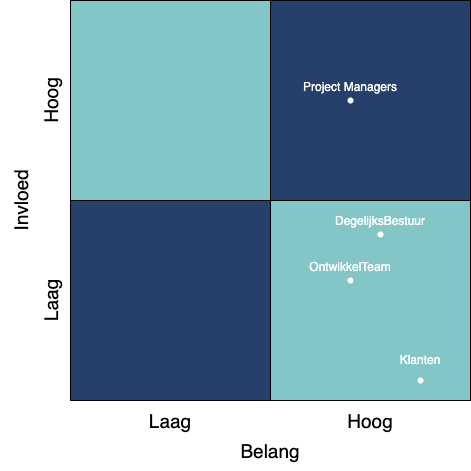
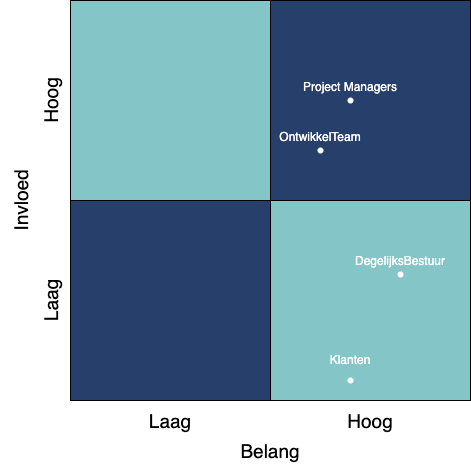
stakeholdersanalyse afbeelding aangepast begonnen aan merge van Onderzoeksmethode naar Onderzoeksplan

diff --git a/Chapters/0301-OnderzoeksPlan.tex b/Chapters/0301-OnderzoeksPlan.tex
@@ -1,6 +1,6 @@
 \chapter{Onderzoeksplan}\label{ch:onderzoekPlan}
 
-In het vorige hoofdstuk is de opdracht voor dit onderzoek duidelijk uitgeschreven. In dit hoofdstuk wordt uitgewijd over hoe deze opdracht wordt uitgevoerd, welke bronnen er gebruikt worden en hoe het onderzoek gedaan zal worden. Het resultaat is het een onderzoeksplan voor een onderzoek naar analyses op kwetsbaarheden op externe bibliotheken(SOUP) binnen EagleScience. Als leidraad voor dit hoofdstuk is gekozen voor hoofdstuk 4 uit \cite{JanLeen2017}
+In het vorige hoofdstuk is de opdracht voor dit onderzoek duidelijk uitgeschreven. In dit hoofdstuk wordt uitgewijd over hoe deze opdracht wordt uitgevoerd, welke bronnen er gebruikt worden en hoe het onderzoek gedaan zal worden. Het resultaat is het een onderzoeksplan voor een onderzoek naar analyses op kwetsbaarheden op externe bibliotheken(SOUP) binnen EagleScience. Als leidraad voor dit hoofdstuk is gekozen voor hoofdstuk 4 uit~\cite{JanLeen2017}
 
 \section{Aanleiding}\label{sec:OP_aanleiding}
 EagleScience heeft de ambitie om te groeien in zowel het aantal projecten dat het aanneemt als in het aantal medewerkers. Daarnaast is het bezig met het integreren van het software lifecycle management paradigma in het kwaliteitssysteem om zo een gerichte-, transparante en traceerbare aanpak te hebben over de kwaliteit en daarmee de veiligheid van de te leveren software. Vooral de groei in projecten heeft geleid tot deze opdracht. Het feit dat EagleScience aanbied om de door ons ontwikkelde applicaties te hosten voor de klant zullen deze in de komende tijd ook aannemen. Hierdoor neemt de druk op het DevOps team binnen EagleScience toe. Om deze druk te verminderen wordt er gezocht naar manieren om taken die veel voorkomen en bijdragen aan de kwaliteit te automatiseren om op die manier een traceerbare en transparante aanpak te hebben.
@@ -13,27 +13,23 @@ Er moet dus een methode worden ontwikkeld die het mogelijk maakt om geautomatise
 
 Door de analyses te automatiseren wordt beoogd dat er minder tijd wordt besteed aan de analyse. Deze tijd kan dan worden besteed door de ontwikkelaar aan taken die declarabel zijn en voor beide partijen winstgevend zijn.
 
-
 %Probleem stelling
-Samengevat is het probleem als volgt: "Handmatig SOUP-analyses doen kost tijd die niet declarabel zijn. Om deze reden is de wens dat er een geautomatiseerde oplossing komt die periodiek de projecten die in ontwikkeling zijn en/of gehost worden door EagleScience geanalyseerd wordt op kwetsbaarheden in gebruikte externe bibliotheken. Door deze automatische oplossing wordt ingeschat dat de (niet declarabele) uren die normaal gebruikt worden voor analyseren van de projecten gebruikt kunnen worden voor andere wel declarabale uren.
+Samengevat is het probleem als volgt: "Handmatig SOUP-analyses doen kosten manuren die niet declarabel zijn. Om deze reden is de wens dat er een geautomatiseerde oplossing komt die periodiek de projecten die in ontwikkeling zijn en/of door EagleScience gehost worde analyseerd op kwetsbaarheden in gebruikte externe bibliotheken. Door deze automatische oplossing te gebruiken wordt ingeschat dat de (niet declarabele) uren die normaal gebruikt worden voor het analyseren van projecten gebruikt kunnen worden voor andere wel declarabale uren. En daarmee de efficientie verhoogd binnen EagleScience.
 
-De huidige handmatig uitgevoerde SOUP-analyses zijn tijdrovend waardoor ontwikkelaars andere taken moeten laten vallen. Daarnaast wordt de analyse niet frequent genoeg gedaan en vaak enkel op inplanbare momenten. De probleemstelling luidt: "Ontwikkel een methode die automatisch en periodiek een SOUP-analyse doet op de projecten die EagleScience in haar beheer heeft".
-
-Centrale vraagstelling:
+Voor het onderzoek naar het hierboven genoemde probleem is de volgende centrale onderzoeksvraag opgesteld: "Hoe kan EagleScience middels een geautomatiseerde methode inzicht krijgen in potentiële kwetsbaarheden van gebruikte bibliotheken binnen zowel lopende als niet lopende projecten waarbij rekening gehouden wordt met de huidige manier van werken?" En heeft de volgende doelstelling:
 
 
 
 
-
-\section{Doelstellingen}\label{sec:doelstellingen}
-Het doel van dit onderzoek is het ontwikkelen van een methode om een SOUP-analyse te doen binnen de dev-stack van EagleScience. Hierbij moet rekening gehouden worden met de in de opdracht gegeven criteria, waarvan de belangrijkste is dat er zo min mogelijk impact moet zijn op de huidige werkwijze. Aan het einde van het onderzoek moet dus een methode worden gepresenteerd die vervolgens bewezen kan worden middels een implementantie van een  analyse op de twee meest gebruikte technologiën binnen EagleScience. De implementatie wordt dan ook in deel \ref{prt:Implementatie} beschreven.
+%\section{Doelstellingen}\label{sec:doelstellingen}
+Het doel van dit onderzoek is het ontwikkelen van een methode om een SOUP-analyse te doen binnen de dev-stack van EagleScience. Hierbij moet rekening gehouden worden met de in de opdracht gegeven criteria, waarvan de belangrijkste is dat er zo min mogelijk impact moet zijn op de huidige werkwijze. Aan het einde van het onderzoek moet dus een methode worden gepresenteerd die vervolgens bewezen kan worden middels een implementantie van een  analyse op de twee meest gebruikte technologiën binnen EagleScience. De implementatie wordt dan ook in deel~\ref{prt:Implementatie} beschreven.
 
 
 \section{Stakeholdersanalyse}\label{sec:stakeholdersanalyse}
-Om te kijken naar het draagvlak voor dit onderzoek dient er een stakeholders analyse gedaan te worden. Op deze manier moet het duidelijk worden wie de stakeholders zijn en welke belangen zei hebben bij het doen van een onderzoek naar een geautomatiseerde SOUP-Analyse en de resultaten hiervan.
+Om inzicht te verkrijgen in het draagvlak voor dit onderzoek dient er een stakeholders analyse gedaan te worden. Op deze manier moet het duidelijk worden wie de stakeholders zijn en welke belangen zei hebben bij het doen van een onderzoek naar een geautomatiseerde SOUP-Analyse en de resultaten hiervan.
 
 \subsection{Dagelijks bestuur (intern)}\label{subsec:dagelijks-bestuur-(intern)1}
-Het dagelijks bestuur ziet vooral voordelen in het op een overzichtelijke manier verkrijgen van inzichten in kwetsbaarheden. Zij beogen dat ze hierdoor beter kunnen aansturen in het gebruik van bibliotheken en/of andere technologiëen. Ondanks dat de ontwikkeling van de beoogde nieuwe module vooral geld zal kosten, is de huidige manier van werken ook niet kosten-effectief. Daarnaast voorziet de CTO dat de nieuwe module tijdswinst zal opleveren waardoor de time-to-market voor andere projecten hoger kan komen te liggen en er dus op langer termijn meer verdiend kan worden.
+Het dagelijks bestuur ziet vooral voordelen in het op een overzichtelijke manier verkrijgen van inzichten in kwetsbaarheden. Zij beogen dat ze hierdoor beter kunnen aansturen in het gebruik van bibliotheken en/of andere technologiëen. Ondanks dat de ontwikkeling van de beoogde nieuwe module vooral geld zal kosten, is de huidige manier van werken ook niet kosten-effectief. Daarnaast voorziet de CTO dat de nieuwe module tijdswinst zal opleveren waardoor de time-to-market voor andere projecten hoger kan komen te liggen en er dus op langer termijn meer omzet gegenereerd kan worden.
 
 \subsection{Projectmanagers (intern)}\label{subsec:projectmanagers-(intern)1}
 Project managers krijgen op dit moment een update over de staat van kwetsbaarheden op het moment dat een analyse gedaan is. Veelal na een deploy of als er naar gevraagt is. De nieuwe module zal ze echter de mogelijkheid bieden om up-to-date informatie on-demand te verkrijgen.
@@ -65,11 +61,11 @@ Het theoretisch kader waarmee gewerkt wordt bestaat uit twee hoofddelen. Het eer
     \item \textbf{200121\_Policy Manual\_ES\_V6 signed.pdf} ISO handboek waarin de bedrijfsvoering binnen EagleScience wordt beschreven.
 \end{itemize}
 Deze documenten vormen de basis over de werkwijze van EagleScience en zal als input gelden voor het ontwerp dat plaats gaat vinden na het onderzoek.
-
+jsdkl;;;;
 Het tweede hoofddeel is de theorie over externe bibliotheken. Het richt zich op het gebruik hiervan, de potentiële gevaren en methoden om deze bibliotheken te analyseren. Als ingangspunt is de OWASP Top-10 gekozen omdat de inhoud van dit document binnen EagleScience geldt als aandachtspunten voor het ontwikkelen van veilige software. De basis voor dit onderzoek wordt beschreven in punt "A06:2021-Vulnerable and Outdated Components". Hier wordt beschreven welke gevaren er potentieel dreigen als op dit punt niets gedaan wordt. Andere bronnen zijn:
 \begin{itemize}
     \item \textbf{OWASP top 10 (https://owasp.org/Top10/)} hierin staan de belangrijkste aandachtspunten die door een onderzoek vanuit de OWASP aan het licht zijn gekomen. Op A06:2021 staat een melding over kwetsbaarheden en outdated Components.
-    \item \textbf{Detail pagina OWASP A06:2021(https://owasp.org/Top10/A06_2021-Vulnerable_and_Outdated_Components/)} OP deze pagina zijn details te vinden over item A06:2021 waaronder een beschrijving, Hoe het te voorkomen is en een aantal voorbeeld scenario's waarbij een aanval wordt geillustreerd.
+    \item \textbf{Detail pagina OWASP A06:2021(https://owasp.org/Top10/A06\_2021-Vulnerable\_and\_Outdated\_Components/)} OP deze pagina zijn details te vinden over item A06:2021 waaronder een beschrijving, Hoe het te voorkomen is en een aantal voorbeeld scenario's waarbij een aanval wordt geillustreerd.
     \item \textbf{OWASP dependency-check (https://owasp.org/www-project-dependency-check/)} Pagina over het project binnen de OWASP voor het analyseren van componenten in Applicaties
     \item \textbf{Justifying the use of software of uncertain pedigree (SOUP) in safety-related applications} P.G.\ Bishop, R.E.\ Bloomfield and P.K.D.\  Froome for Adelard 2001. Hoewel dit document verouderd lijkt staat er wel degelijk interessante informatie over waarom je SOUP zou gebruiken en hoe je de risico's kan verminderen.
     \item \textbf{Backstabber’s Knife Collection: A Review of Open Source Software Supply Chain Attacks} Marc Ohm, Henrik Plate, Arnold Sykosch, and Michael Meier: 2020: Dit artikel bevat informatie over een mogelijke vorm van aanvallen die middels SOUP uitgevoerd zouden kunnen worden. Daarnaast geeft het artikel inzicht in hoe de onderzoekers packages voor NPM, Python, en Ruby hebben onderzocht.
@@ -88,6 +84,90 @@ Om de relevantie en relatie van de verschillende onderzoeken te waarborgen is he
 In figuur~\ref{fig:ConceptueelModel} is het conceptueel model opgenomen dat voor deze opdracht is opgesteld. Dit model maakt de samenhang van de verschillende begrippen duidelijk.
 
 Het kernbegrip is "Automatische methode SOUP analyse" en staat voor de eind conclusie die het onderzoek moet opleveren in de zin van een conclussie over tools en een methode die gebruikt kunnen worden in het ontwerp van de module. Om tot deze conclussie te komen zijn er vier begrippen die ieders een eigen domein binnen de probleemstelling belichten. Zo zal "werkwijze EagleScience" de manier van werken binnen Eaglescience belichten als ook de manier van uitrollen en de dev-stack die gebruikt gaat worden. Ook komt hier de Software Lifecycle Managment aan bod gezien dit één van de aanleidingen voor de opdracht. Het theoretische deel van het onderzoek wordt onderzocht in "veilig gebruik externe bibliotheken" waarin wordt gekeken waarom er bibliotheken van buitenaf worden gebruikt en wat de potentiële gevaren zijn die dit met zich meebrengt. Het begrip methoden en tools zal ingaan op de beschikbare tools die gebruikt kunnen worden om een analyse te doen. Met deze tools wordt een methode onderzocht die het mogelijk maakt met de constraints die EagleScience heeft om een SOUP analyse te doen. Met als resultaaat een theoretische methode die als input kan gelden voor het ontwerp voor de nieuwe module die in de opdracht staat beschreven. Deze nieuwe module dient in de EagleScience Portal opgenomen te worden en om die reden is het begrip "Huidig architctuur EagleScience Portal" waarin wordt onderzocht hoe de portal ontworpen is en welke dev-stack er is gebruikt.
+
+\section{Onderzoeksontwerp}\label{sec:OP_onderzoeksontwerp}
+Aan de hand van het hioerboven beschreven theoretisch kader, conceptueel model en de doelstellingen in het volgende onderzoeksOntwerp opgesteld.
+
+section{Onderzoeksvraag en deelvragen}
+Op basis van de opdracht de gesteld is door het management team is de onderzoeksvraag als volgt: "Hoe kan EagleScience middels een geautomatiseerde methode inzicht krijgen in potentiële kwetsbaarheden van gebruikte bibliotheken binnen zowel lopende als niet lopende projecten waarbij rekening gehouden wordt met de huidige manier van werken?"
+
+Door deze vraag te ontleden komen zijn er verschillende domeinen waar er onderzocht moet worden:
+Het eerste domein is EagleScience, waar we de deelvraag kunnen stellen: "Welke methode en dev-stack worden er gebruikt om binnen EagleScience software te ontwikkelen en uit te rollen?". Het volgende domein is softwareveiligheid en dan met name invloeden van externe bibliotheken. Dit geeft de volgende deelvraag van het onderzoek namelijk: "Wat is het effect van gebruik van externe bibliotheken bij het ontwikkelen van software, welke gevaren brengt dit met zich mee en wat kan er gedaan worden om deze gevaren te minimaliseren?". Als laatste domein is er de methode om geautomatiseerd analyses te doen om de veiligheid binnen software te verbeteren, De deelvraag hierbij geldt:"Hoe kan er gebruik gemaakt worden van de huidige buildstraat om een analyse te doen op " Deze deelvraag maakt gebruik van uitkomsten van de deelvragen die hiervoor zijn beantwoord.
+
+\begin{figure}[htbp]
+    \myfloatalign
+    \includegraphics[width=10cm]{gfx/Onderzoekmodel}
+    \caption{Onderzoeksmodel}
+    \label{fig:OnderzoeksModel}
+\end{figure}
+In figuur\ref{fig:OnderzoeksModel} is te zien hoe de deelvragen in relatie staan met elkaar om samen tot een antwoord te komen op de vraag "Hoe kan EagleScience middels een dan al niet geautomtiseerde methode inzicht krijgen in potentiële kwetsbaarheden van gebruikte bibliotheken binnen zowel lopende als niet lopende projecten?". Om het overzicht en de scope te bewaren is er gekozen om iedere deelvraag apart te onderzoeken. In de komende secties is te lezen hoe deze aparte onderzoeken gedaan worden. In de hoofdstukken die volgen zullen de onderzoeken te lezen zijn en wat de conclussies zijn uit deze onderzoeken.
+
+\section{Scope}\label{sec:Scope}
+De wereld van software ontwikkeling is enorm en groeit met de dag Als ook de kennis en manieren om steeds veiliger software te maken. Om er voor te zorgen dat de onderzoeken relevant zijn voor de opdracht dient de volgende scope in acht te worden genomen:
+\begin{itemize}
+    \item Alleen de dev-stack van EagleScience is relevant. Oplossing die bestaan voor andere ontwikkeltalen en tooling wordt genoemd maar niet verder onderzocht.
+    \item Sotware veiligheid is een breed veld en er wordt in dit onderzoek alleen gekeken naar het onderdeel wat gaat over het gebruik van externe bibliotheken. Om een relatie te bieden van dit onderdeel te opzichte van de rest worden andere onderdelen genoemd maar niet verder ingegaan.
+    \item Er is veel beweging in het doen van analyses op source code. en er zijn inmiddels een aantal tools beschikbaar die deze analyses kunnen doen. Echter veel van deze tools zijn niet opensource en vragen een dergelijke aanpassing in de huidige manier van werken dat er voor gekozen is deze buiten beschouwing te laten. Er worden alleen tools meegenomen die "makkelijk" te integreren zijn in de huidige buildstraat.
+\end{itemize}
+
+\section{Het onderzoek}\label{sec:methodeonderzoek}
+Zoals hierboven is aangegeven zullen er een drietal onderzoeken worden uitgevoerd die ieders een deel van de gestelde onderzoeksvraag zullen beantwoorden. De conclussie van de eeste twee onderzoeken is input voor het laatste onderzoek wat een zoektocht is naar een methode die in te passen is in de huidige buildstraat conform de opdracht van de oprdrachtgever.
+\section{Ondezoeken}\label{sec:onderzoeken}
+De vooronderzoeken hebben ieders een eigen onderwerp, doel, onderzoeksvraag en methode
+\subsection{Onderzoek 1: Architectuur binnen EagleScience}\label{subsec:onderzoeksmethode-architectuur-binnen-eaglescience}
+Het \textbf{doel} van dit onderzoek is om kennis te vergaren over de manier van uitrollen van software binnen EagleScience. Daarnaast moet het onderzoek inzicht geven in de gebruikte dev-stack( programeertalen, tooling en frameworks). De uitkomst is relevant omdat het een basis is waar de nieuwe oplossing onderdeel van wordt. De \textbf{Scope} van dit onderzoek beperkt zich dan ook alleen op de processen van die direct iets te maken hebben met het ontwikkelen en uitrollen van de software. Uit het doel en de scope komt de volgende ~\textbf{onderzoeksvraag}: "Welke methode en dev-stack wordt er gebruikt om binnen EagleScience software te ontwikkelen en uit te rollen?". De \textbf{methodes} die gebruikt worden zijn de interne documenten over de verschillende platformen en werkwijzen die beschikbaar zijn gesteld door het bedrijf zelf. De kennis uit deze documenten kan worden aangevuld door informatie dat uit bronnen van leveranciers afkomstig is. Daarnaast zullen er gesprekken plaats vinden met collega's. Deze input geeft het volgende onderzoeks model wat te zien is in figuur~\ref{fig:OnderzoeksModelEaglescience}
+De \textbf{bronnen} die voornamelijk gebruikt worden zijn interne documenten waarin vermeld staat hoe een project verloopt en welke tooling er gebruikt wordt. Daarnaast zal er veel gebruik gemaakt worden van kennis van collega's en die ik zelf heb opgedaan dan al niet tijdens mijn opleiding.
+\begin{figure}[htbp]
+    \myfloatalign
+    \includegraphics[width=10cm]{gfx/OnderzoeksmodelES}
+    \caption{Onderzoeksmodel Eaglescience}
+    \label{fig:OnderzoeksModelEaglescience}
+\end{figure}
+
+
+\newpage % quickfix om volgordelijkheid te veranderen voor figuren...
+
+
+\subsection{Onderzoek 2: Literatuur studie veiligere software door SOUP analyse}\label{subsec:onderzoek-literatuur-studie-soup}
+nieuwe vraag: "Wat is het effect van gebruik van externe bibliotheken bij het ontwikkelen van software, welke gevaren brengt dit met zich mee en wat kan er gedaan worden om deze gevaren te minimaliseren?"
+Het \textbf{doel} van dit onderzoek is om inzicht te krijgen wat een SOUP-analyse is en hoe relevant het is om dit te doen. Daarnaast wordt er gekeken wat de SOUP-analyse toevoegd aan de veiligheid van de software die EagleScience levert. Met dit doel is de \textbf{scope} dat er alleen gekeken wordt naar soup-analyses en dat andere methoden die software veiliger maken wel aanbod komen als referentie. Maar niet verder worden uitgezocht.  De \textbf{onderzoeksvraag} luid: "Hoe kan SOUP op een effectieve manier worden geanalyseerd en hoe maakt dit software veiliger?". De gebruikte \textbf{methodes} zullen deskresearch zijn aangevuld met interviews. Interviews met collega's zullen inzicht brengen in methodes die al worden toegepast om software veiliger te maken. Daarnaast zijn een aantal conferenties die gehouden worden met software veiligheid als onderwerp. Deze conferenties staan nu door de huidige wereld situatie online en zijn vaak terug te kijken. Het onderzoeksmodel welke te zien is in figuur~\ref{fig:OnderzoeksModelNoodZaakSOUP} geeft een beeld hoe de methoden worden toegepast om tot een eindresultaat te komen. De \textbf{bronnen} die gebruikt zullen worden zullen online bronnen zijn aangevuld met vraaggesprekken met collega's en medewerkers van instanties die zich bezighouden met het veiliger maken van software. Daarnaast worden relevante presentaties van conferenties terug gekeken voor verdere informatie.
+\begin{figure}[htbp]
+    \myfloatalign
+    \includegraphics[width=10cm]{gfx/OnderzoeksmodelSOUP}
+    \caption{Onderzoeks model gevaren van SOUP}
+    \label{fig:OnderzoeksModelNoodZaakSOUP}
+\end{figure}
+
+%
+%Dit onderzoek is vooral bedoeld om wegwijs te raken in de wereld het zoeken naar kwetsbaarheden binnen externe bibliotheken.
+%Het gaat voornamelijk in op de betekenis van de verschillende begrippen en vervolgens hoe belangrijk het is om deze analyse uit te voeren.
+%De uitkomst van dit onderzoek is een basis kennis die als entree voor de komende onderzoeken gebruikt kan worden.
+%Het onderzoek heeft niet echt een hoofdvraag waardoor er een duidelijke scope moet worden gedefineerd.
+%De volgende zaken moet duidelijk worden in dit onderzoek:
+%\begin{itemize}
+%  \item "Wat is SOUP?"
+%  \item "Waarom kan het gebruik van SOUP gevaarlijk zijn?"
+%  \item "Hoe worden deze gevaren/kwetsbaarheden gelogd?"
+%  \item "Wat is een CVE en een CVSS?"
+%\end{itemize}
+%
+%
+%
+
+\newpage % tijdelijk om te zorgen dat figuur op zelfde pagina als tekst komt
+\subsection{Onderzoek 3: Implementatie van een SOUP-analyse}\label{subsec:onderzoek-naar-soup-analyse}
+Het \textBF{doel} is om een tooling/bibliotheken te vinden die gebruikt kan worden om soup analyses te doen die binnen de huidige methode van uitrollen van eaglescience past. Daarnaast moet in kaart worden gebracht welke output deze methode genereert zodat het input geeft in de nieuwe oplossing. De \textbf{methode} die gebruikt wordt is deskresearch om te onderzoeken welke tooling er bestaat. Als er een selectie is gemaakt voor een tool dient deze in een kleine testopstelling getest te worden om vervolgens te kijken of we deze kunnen implementeren in de bestaande uitrolmethode. De \textbf{bronnen} die gebruikt zullen worden zijn informatie bronnen van leveranciers van dergelijke tooling. Daarnaast zullen de bevindingen middels een review worden geverifieerd op bruikbaarheid bij de opdrachgever. Het onderzoeksmodel voor dit onderzoek is te vinden in figuur~\ref{fig:OnderzoeksModelSOUPmethode}
+
+\begin{figure}[htbp]
+    \myfloatalign
+    \includegraphics[width=10cm]{gfx/OnderzoeksModelSOUPMethode}
+    \caption{Onderzoeksmodel SOUP-analyse module}
+    \label{fig:OnderzoeksModelSOUPmethode}
+\end{figure}
+
+
+
+
 
 \section{Deelvragen}\label{sec:deelvragen}
 Aan de hand van het theoretisch kader, conceptueel model en de doelstellingen zijn er de volgende deelvragen voor dit onderzoek opgesteld:

diff --git a/Chapters/0302-OnderzoekMethode.tex b/Chapters/0302-OnderzoekMethode.tex
@@ -2,79 +2,4 @@
 Dit hoofdstuk zal het voorwerk voor het onderzoek beschrijven. Aan bod zal de onderzoeksvraag, methoden van onderzoeken voorbij komen. met als resultaat een plan voor het verdere onderzoek naar een oplossing voor de opdracht die gegeven is.
 
 
-\section{Onderzoeksvraag en deelvragen}
-Op basis van de opdracht de gesteld is door het management team is de onderzoeksvraag als volgt: "Hoe kan EagleScience middels een dan al niet geautomtiseerde methode inzicht krijgen in potentiële kwetsbaarheden van gebruikte bibliotheken binnen zowel lopende als niet lopende projecten?"
-
-Door deze vraag te ontleden komen zijn er verschillende domeinen waar er onderzocht moet worden:
-Het eerste domein is EagleScience, waar we de deelvraag kunnen stellen: "Welke methode en dev-stack worden er gebruikt om binnen EagleScience software te ontwikkelen en uit te rollen?". Het volgende domein is softwareveiligheid en dan met name invloeden van externe bibliotheken. Dit geeft de volgende deelvraag van het onderzoek namelijk: "Wat is het effect van gebruik van externe bibliotheken bij het ontwikkelen van software, welke gevaren brengt dit met zich mee en wat kan er gedaan worden om deze gevaren te minimaliseren?". Als laatste domein is er de methode om geautomatiseerd analyses te doen om de veiligheid binnen software te verbeteren, De deelvraag hierbij geldt:"Hoe kan er gebruik gemaakt worden van de huidige buildstraat om een analyse te doen op " Deze deelvraag maakt gebruik van uitkomsten van de deelvragen die hiervoor zijn beantwoord.
-
-\begin{figure}[htbp]
-    \myfloatalign
-    \includegraphics[width=10cm]{gfx/Onderzoekmodel}
-    \caption{Onderzoeksmodel}
-    \label{fig:OnderzoeksModel}
-\end{figure}
-In figuur\ref{fig:OnderzoeksModel} is te zien hoe de deelvragen in relatie staan met elkaar om samen tot een antwoord te komen op de vraag "Hoe kan EagleScience middels een dan al niet geautomtiseerde methode inzicht krijgen in potentiële kwetsbaarheden van gebruikte bibliotheken binnen zowel lopende als niet lopende projecten?". Om het overzicht en de scope te bewaren is er gekozen om iedere deelvraag apart te onderzoeken. In de komende secties is te lezen hoe deze aparte onderzoeken gedaan worden. In de hoofdstukken die volgen zullen de onderzoeken te lezen zijn en wat de conclussies zijn uit deze onderzoeken.
-
-\section{Scope}\label{sec:Scope}
-De wereld van software ontwikkeling is enorm en groeit met de dag Als ook de kennis en manieren om steeds veiliger software te maken. Om er voor te zorgen dat de onderzoeken relevant zijn voor de opdracht dient de volgende scope in acht te worden genomen:
-\begin{itemize}
-    \item Alleen de dev-stack van EagleScience is relevant. Oplossing die bestaan voor andere ontwikkeltalen en tooling wordt genoemd maar niet verder onderzocht.
-    \item Sotware veiligheid is een breed veld en er wordt in dit onderzoek alleen gekeken naar het onderdeel wat gaat over het gebruik van externe bibliotheken. Om een relatie te bieden van dit onderdeel te opzichte van de rest worden andere onderdelen genoemd maar niet verder ingegaan.
-    \item Er is veel beweging in het doen van analyses op source code. en er zijn inmiddels een aantal tools beschikbaar die deze analyses kunnen doen. Echter veel van deze tools zijn niet opensource en vragen een dergelijke aanpassing in de huidige manier van werken dat er voor gekozen is deze buiten beschouwing te laten. Er worden alleen tools meegenomen die "makkelijk" te integreren zijn in de huidige buildstraat.
-\end{itemize}
-
-\section{Het onderzoek}\label{sec:methodeonderzoek}
-Zoals hierboven is aangegeven zullen er een drietal onderzoeken worden uitgevoerd die ieders een deel van de gestelde onderzoeksvraag zullen beantwoorden. De conclussie van de eeste twee onderzoeken is input voor het laatste onderzoek wat een zoektocht is naar een methode die in te passen is in de huidige buildstraat conform de opdracht van de oprdrachtgever.
-\section{Ondezoeken}\label{sec:onderzoeken}
-De vooronderzoeken hebben ieders een eigen onderwerp, doel, onderzoeksvraag en methode
-\subsection{Onderzoek 1: Architectuur binnen EagleScience}\label{subsec:onderzoeksmethode-architectuur-binnen-eaglescience}
-Het \textbf{doel} van dit onderzoek is om kennis te vergaren over de manier van uitrollen van software binnen EagleScience. Daarnaast moet het onderzoek inzicht geven in de gebruikte dev-stack( programeertalen, tooling en frameworks). De uitkomst is relevant omdat het een basis is waar de nieuwe oplossing onderdeel van wordt. De \textbf{Scope} van dit onderzoek beperkt zich dan ook alleen op de processen van die direct iets te maken hebben met het ontwikkelen en uitrollen van de software. Uit het doel en de scope komt de volgende ~\textbf{onderzoeksvraag}: "Welke methode en dev-stack wordt er gebruikt om binnen EagleScience software te ontwikkelen en uit te rollen?". De \textbf{methodes} die gebruikt worden zijn de interne documenten over de verschillende platformen en werkwijzen die beschikbaar zijn gesteld door het bedrijf zelf. De kennis uit deze documenten kan worden aangevuld door informatie dat uit bronnen van leveranciers afkomstig is. Daarnaast zullen er gesprekken plaats vinden met collega's. Deze input geeft het volgende onderzoeks model wat te zien is in figuur~\ref{fig:OnderzoeksModelEaglescience}
-De \textbf{bronnen} die voornamelijk gebruikt worden zijn interne documenten waarin vermeld staat hoe een project verloopt en welke tooling er gebruikt wordt. Daarnaast zal er veel gebruik gemaakt worden van kennis van collega's en die ik zelf heb opgedaan dan al niet tijdens mijn opleiding.
-\begin{figure}[htbp]
-    \myfloatalign
-    \includegraphics[width=10cm]{gfx/OnderzoeksmodelES}
-    \caption{Onderzoeksmodel Eaglescience}
-    \label{fig:OnderzoeksModelEaglescience}
-\end{figure}
-
-
-\newpage % quickfix om volgordelijkheid te veranderen voor figuren...
-
-
-\subsection{Onderzoek 2: Literatuur studie veiligere software door SOUP analyse}\label{subsec:onderzoek-literatuur-studie-soup}
-nieuwe vraag: "Wat is het effect van gebruik van externe bibliotheken bij het ontwikkelen van software, welke gevaren brengt dit met zich mee en wat kan er gedaan worden om deze gevaren te minimaliseren?"
-Het \textbf{doel} van dit onderzoek is om inzicht te krijgen wat een SOUP-analyse is en hoe relevant het is om dit te doen. Daarnaast wordt er gekeken wat de SOUP-analyse toevoegd aan de veiligheid van de software die EagleScience levert. Met dit doel is de \textbf{scope} dat er alleen gekeken wordt naar soup-analyses en dat andere methoden die software veiliger maken wel aanbod komen als referentie. Maar niet verder worden uitgezocht.  De \textbf{onderzoeksvraag} luid: "Hoe kan SOUP op een effectieve manier worden geanalyseerd en hoe maakt dit software veiliger?". De gebruikte \textbf{methodes} zullen deskresearch zijn aangevuld met interviews. Interviews met collega's zullen inzicht brengen in methodes die al worden toegepast om software veiliger te maken. Daarnaast zijn een aantal conferenties die gehouden worden met software veiligheid als onderwerp. Deze conferenties staan nu door de huidige wereld situatie online en zijn vaak terug te kijken. Het onderzoeksmodel welke te zien is in figuur~\ref{fig:OnderzoeksModelNoodZaakSOUP} geeft een beeld hoe de methoden worden toegepast om tot een eindresultaat te komen. De \textbf{bronnen} die gebruikt zullen worden zullen online bronnen zijn aangevuld met vraaggesprekken met collega's en medewerkers van instanties die zich bezighouden met het veiliger maken van software. Daarnaast worden relevante presentaties van conferenties terug gekeken voor verdere informatie.
-\begin{figure}[htbp]
-    \myfloatalign
-    \includegraphics[width=10cm]{gfx/OnderzoeksmodelSOUP}
-    \caption{Onderzoeks model gevaren van SOUP}
-    \label{fig:OnderzoeksModelNoodZaakSOUP}
-\end{figure}
-
-%
-%Dit onderzoek is vooral bedoeld om wegwijs te raken in de wereld het zoeken naar kwetsbaarheden binnen externe bibliotheken.
-%Het gaat voornamelijk in op de betekenis van de verschillende begrippen en vervolgens hoe belangrijk het is om deze analyse uit te voeren.
-%De uitkomst van dit onderzoek is een basis kennis die als entree voor de komende onderzoeken gebruikt kan worden.
-%Het onderzoek heeft niet echt een hoofdvraag waardoor er een duidelijke scope moet worden gedefineerd.
-%De volgende zaken moet duidelijk worden in dit onderzoek:
-%\begin{itemize}
-%  \item "Wat is SOUP?"
-%  \item "Waarom kan het gebruik van SOUP gevaarlijk zijn?"
-%  \item "Hoe worden deze gevaren/kwetsbaarheden gelogd?"
-%  \item "Wat is een CVE en een CVSS?"
-%\end{itemize}
-%
-%
-%
-
-\newpage % tijdelijk om te zorgen dat figuur op zelfde pagina als tekst komt
-\subsection{Onderzoek 3: Implementatie van een SOUP-analyse}\label{subsec:onderzoek-naar-soup-analyse}
-Het \textBF{doel} is om een tooling/bibliotheken te vinden die gebruikt kan worden om soup analyses te doen die binnen de huidige methode van uitrollen van eaglescience past. Daarnaast moet in kaart worden gebracht welke output deze methode genereert zodat het input geeft in de nieuwe oplossing. De \textbf{methode} die gebruikt wordt is deskresearch om te onderzoeken welke tooling er bestaat. Als er een selectie is gemaakt voor een tool dient deze in een kleine testopstelling getest te worden om vervolgens te kijken of we deze kunnen implementeren in de bestaande uitrolmethode. De \textbf{bronnen} die gebruikt zullen worden zijn informatie bronnen van leveranciers van dergelijke tooling. Daarnaast zullen de bevindingen middels een review worden geverifieerd op bruikbaarheid bij de opdrachgever. Het onderzoeksmodel voor dit onderzoek is te vinden in figuur~\ref{fig:OnderzoeksModelSOUPmethode}
-
-\begin{figure}[htbp]
-    \myfloatalign
-    \includegraphics[width=10cm]{gfx/OnderzoeksModelSOUPMethode}
-    \caption{Onderzoeksmodel SOUP-analyse module}
-    \label{fig:OnderzoeksModelSOUPmethode}
-\end{figure}
+\

diff --git a/main.tex b/main.tex
@@ -158,32 +158,32 @@
     \cleardoublepage\include{FrontBackMatter/Declaration} % Declaration
     \cleardoublepage\include{FrontBackMatter/Colophon} % Colophon
 %----------------------------------------------------------------------------------------
-%    \begin{thebibliography}{9}
-%
-%        \bibitem{lamport94}\label{}
-%        Leslie Lamport,
-%        \textit{\LaTeX: a document preparation system},
-%        Addison Wesley, Massachusetts,
-%        2nd edition,
-%        1994.
-%
-%        \bibitem{JanLeen2017}
-%        Jan Leen \& Jef Mertens,
-%        \textit{Praktijkgericht onderzoek in bedrijg},
-%        Tweede druk 2017,
-%        Uitgeverij coutinho, Bussum,
-%
-%        \bibitem{wiki:SOUP}
-%        Wikipedia, auteur onbekend,
-%        \textit{https://en.wikipedia.org/wiki/Software\_of\_unknown\_pedigree}
-%        bezocht op 11-10-2021
-%
-%        \bibitem{Kohnfelder2021}
-%        Loren Kohnfelder
-%        \textit{Designing Secure Software}
-%        november 2021
-%
-%    \end{thebibliography}
+    \begin{thebibliography}{9}
+
+        \bibitem{lamport94}\label{}
+        Leslie Lamport,
+        \textit{\LaTeX: a document preparation system},
+        Addison Wesley, Massachusetts,
+        2nd edition,
+        1994.
+
+        \bibitem{JanLeen2017}
+        Jan Leen \& Jef Mertens,
+        \textit{Praktijkgericht onderzoek in bedrijg},
+        Tweede druk 2017,
+        Uitgeverij coutinho, Bussum,
+
+        \bibitem{wiki:SOUP}
+        Wikipedia, auteur onbekend,
+        \textit{https://en.wikipedia.org/wiki/Software\_of\_unknown\_pedigree}
+        bezocht op 11-10-2021
+
+        \bibitem{Kohnfelder2021}
+        Loren Kohnfelder
+        \textit{Designing Secure Software}
+        november 2021
+
+    \end{thebibliography}
 
 
 \end{document}
